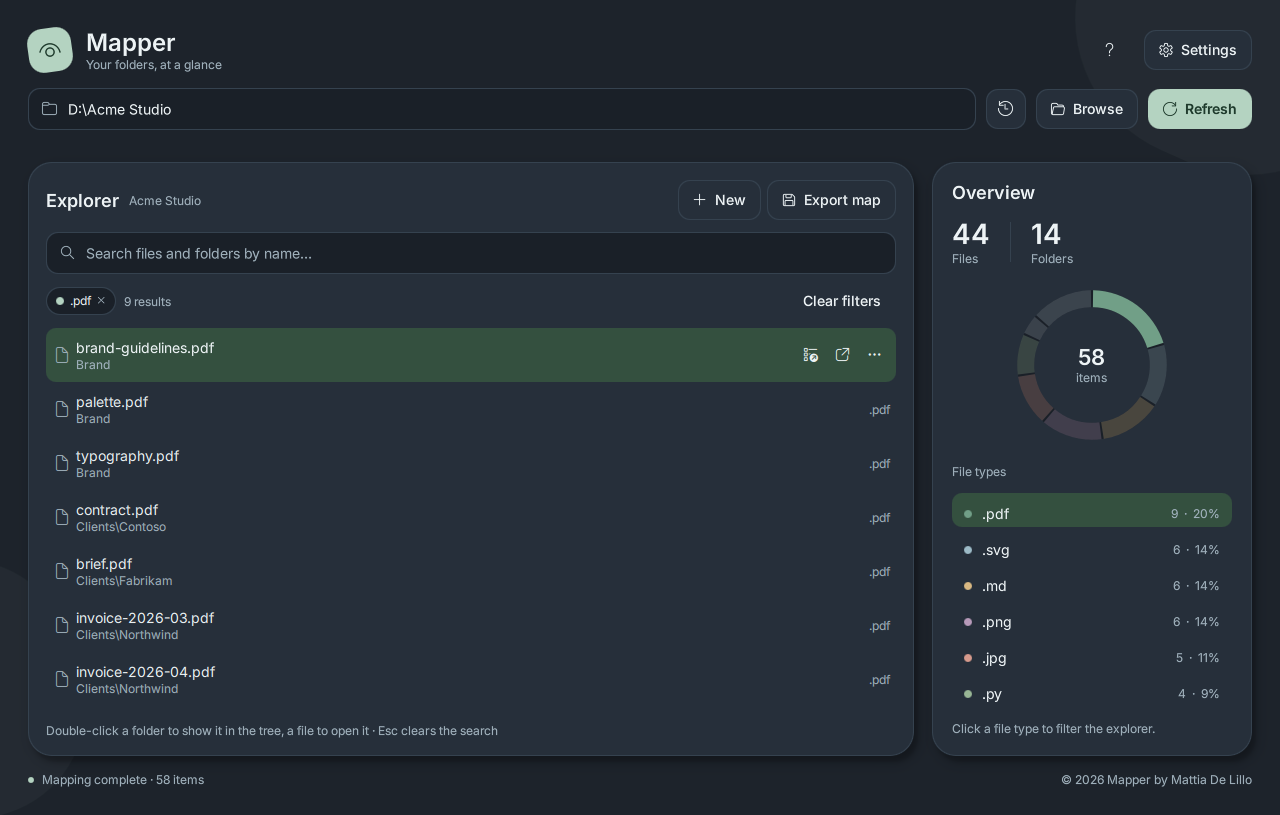
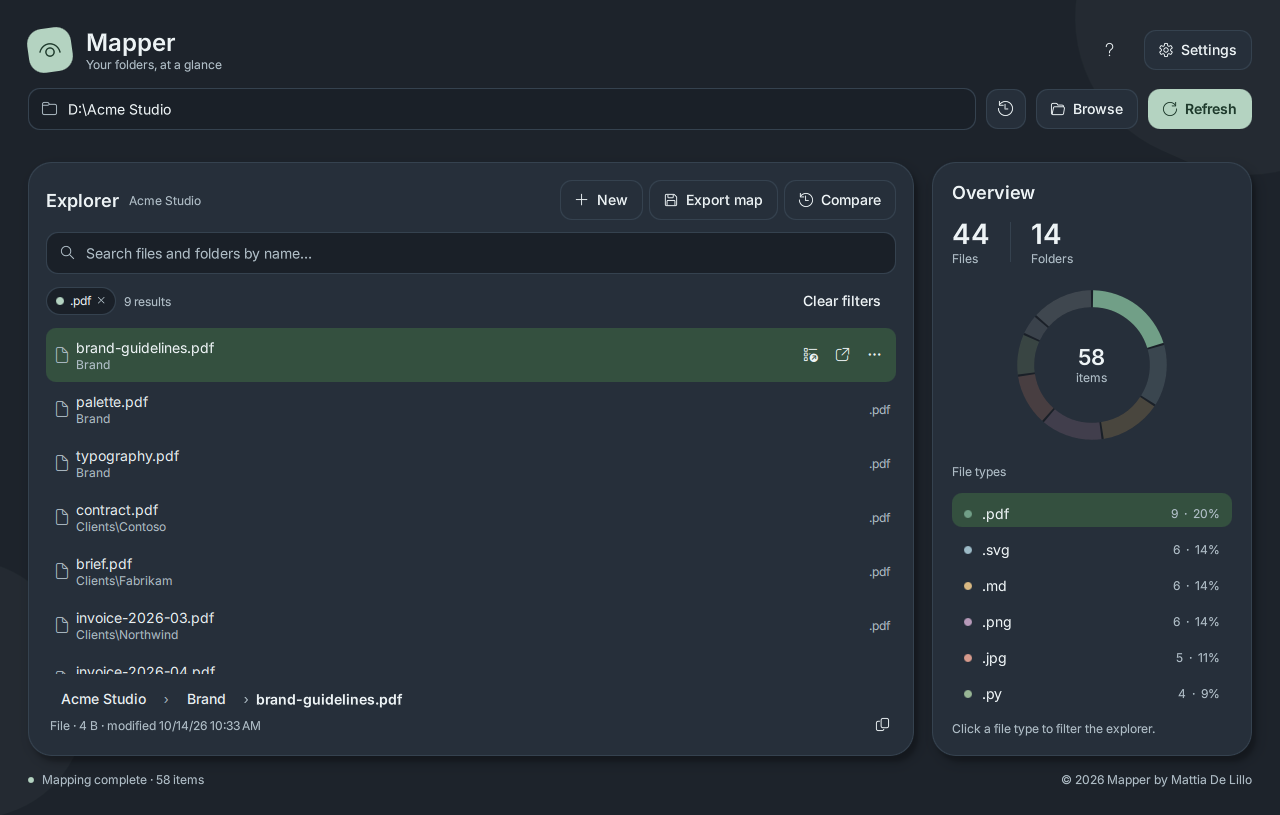
14/10/2026 10:36:46 - MAPPER v1.5.0 - Action: docs - Details: selection bar and empty states in README and CHANGELOG, regenerated screenshots, milestone 4 report

Changed region(s): [[0.0312, 0.8282, 0.375, 0.9202], [0.625, 0.2147, 0.6875, 0.2761], [0.5312, 0.2454, 0.5938, 0.2761]]

diff --git a/docs/mapper-2.0/milestone-4.md b/docs/mapper-2.0/milestone-4.md
@@ -1,0 +1,40 @@
+# Mapper 2.0 — Milestone 4: rifinitura dell'interfaccia
+
+Data: 14/10/2026 · Branch: `feature/mapper-2.0` · Riferimento: [fase-0-audit.md](fase-0-audit.md) (P2).
+
+## Cosa è stato fatto
+
+| Parte | Modifica | File |
+| --- | --- | --- |
+| Totali delle cartelle | `Tree.totals(i)` restituisce file, cartelle e byte di un sottoalbero in tempo costante (somme prefisse costruite una volta nel thread di scansione) | `src/mapper_core/model.py`, `src/backend.py` |
+| Dettagli | Slot `details(path)`: tipo, dimensione, totali, data di modifica, attributi e percorso a passi (radice + cartelle antenate) | `src/backend.py` |
+| Barra della selezione | Sotto l'albero: percorso cliccabile (clic su un passo = apri quella cartella, la radice torna in cima), nome, dettagli e copia percorso; il suggerimento fisso appare solo senza selezione | `src/qml/Main.qml` |
+| Stati vuoti | In mappatura (con il numero di elementi trovati), benvenuto, nessun risultato, cartella vuota, tutto escluso (pulsante *Modifica esclusioni*), cartella non leggibile (pulsante *Mostra dettagli*) | `src/qml/Main.qml` |
+| Accessibilità | Righe dell'albero con descrizione per i lettori di schermo (cartella, collegamento o estensione); barra della selezione con ruolo *barra di stato* e testo completo; testo secondario più scuro (chiaro) e più chiaro (scuro): contrasto minimo da 3,75 a **4,62:1** | `src/qml/Main.qml`, `tests/test_accessibility.py` |
+| Traduzioni | 15 nuove chiavi in 5 lingue (195 chiavi ciascuna) | `src/Languages/*.json` |
+| Doc | Funzionalità README IT/EN, CHANGELOG, screenshot rigenerati | `README*.md`, `CHANGELOG.md`, `docs/screenshots/` |
+
+## Criteri di accettazione
+
+| Criterio della specifica | Esito | Evidenza |
+| --- | --- | --- |
+| Pannello dettagli (dimensione, date, attributi) | ✔ | `test_details_and_breadcrumb_of_the_selection`; smoke: dettagli che iniziano con `File · 0 B` |
+| Breadcrumb | ✔ | smoke: *Workspace › Documents › nested-report.txt*; screenshot del README |
+| Totali di una cartella senza rileggere il disco | ✔ | `test_folder_totals_in_constant_time` (anche senza metadati: byte = 0) |
+| Stati vuoti ed errori chiari | ✔ | smoke: titolo *This folder is empty* su una cartella vuota; schermata nessun risultato già coperta |
+| Contrasto WCAG AA ≥ 4,5:1 | ✔ | `test_every_theme_meets_wcag_aa_for_normal_text` su 4 temi × 12 coppie testo/sfondo |
+| Lettori di schermo | ✔ (parziale) | nomi e descrizioni accessibili su righe e barra; non provato con NVDA/Narratore |
+| Nessuna regressione | ✔ | 90 test unitari + smoke UI; mappa TXT identica alla 1.5 |
+| Exe | ✔ | entrambi compilati; `--smoke-test` senza avvisi; nessun dato personale |
+
+## Limiti noti
+
+- `Main.qml` non è stato diviso in componenti (resta un file unico di ~1 600 righe): la divisione è un
+  cambiamento ampio senza vantaggi per l'utente e va fatta con calma, dopo il rilascio 2.0.
+- Non c'è un "annulla" per le operazioni sui file oltre al Cestino di Windows.
+- L'accessibilità non è stata provata con un lettore di schermo reale.
+
+## Prossimo passo: Milestone 5
+
+Sicurezza e preparazione al rilascio: controlli CI (lint, audit delle dipendenze, SBOM, azioni fissate per
+hash), revisione finale della sicurezza, note di rilascio 2.0.

diff --git a/README.it.md b/README.it.md
@@ -74,7 +74,11 @@ Avviando dal codice sorgente sono salvate in `src/config.json`.
 - Albero virtualizzato con espandi/comprimi, espandi tutto/comprimi tutto e navigazione completa da tastiera; le cartelle aperte restano aperte dopo un aggiornamento o un'azione sui file
 - **Ricerca mentre scrivi** in tutta la mappa, con le corrispondenze evidenziate e la posizione di ogni risultato; *Mostra nell'albero* apre le cartelle che lo contengono e seleziona l'elemento
 - Grafico ad anello interattivo e legenda completa e scorrevole; clicca un tipo di file per filtrare, di nuovo (o sull'etichetta) per togliere il filtro
-- Scansione in background con avanzamento reale e possibilità di annullare
+- **Barra della selezione** sotto l'albero: percorso cliccabile dell'elemento selezionato (clic su un passo per
+  andare a quella cartella), dimensione, data e attributi; per le cartelle i file, le sottocartelle e la dimensione totale
+- Stati vuoti chiari: cartella vuota, nessun risultato, tutto escluso dalle tue regole (con scorciatoia alle
+  regole) oppure cartella non leggibile (con scorciatoia ai dettagli)
+- Scansione in background con conteggio dal vivo degli elementi trovati e possibilità di annullare
 - Azioni con clic destro (o ⋯): apri, mostra in Esplora risorse, copia percorso, taglia/copia/incolla, duplica, nuovo file/cartella, rinomina, elimina
 - Elimina sposta gli elementi nel **Cestino**; le copie non sovrascrivono mai (`nome - copia`, `nome - copia (2)` …); i nomi vengono controllati prima della conferma
 - **Esporta mappa** come albero di testo (TXT), Markdown, JSON o CSV, per tutta la mappa o una cartella (clic destro →
@@ -88,7 +92,8 @@ Avviando dal codice sorgente sono salvate in `src/config.json`.
 - **Esclusioni**: salta le cartelle tecniche (`.git`, `node_modules`, …), aggiungi modelli in stile `.gitignore`
   e limita i livelli da mappare (Impostazioni → *Esclusioni e livelli…*)
 - Cinque temi (chiaro, scuro, blu, rosso, sistema) e cinque lingue (italiano, inglese, tedesco, francese, spagnolo), con anteprima dal vivo nelle Impostazioni
-- Uno stile unico e coerente per pulsanti, campi, menu, finestre di dialogo, suggerimenti e selettori; animazioni riducibili
+- Uno stile unico e coerente per pulsanti, campi, menu, finestre di dialogo, suggerimenti e selettori; animazioni riducibili;
+  contrasto del testo almeno 4,5:1 (WCAG AA) in ogni tema, nomi e descrizioni per i lettori di schermo
 - Eseguibile portatile, senza installazione; preferenze in `%APPDATA%\Mapper`, oppure accanto all'exe per l'uso da chiavetta
 
 La ricerca usa l'ultima mappatura. Premi F5 per aggiornare dopo modifiche fatte da altri programmi.

diff --git a/README.md b/README.md
@@ -74,7 +74,11 @@ When run from source they are saved in `src/config.json`.
 - Virtualized tree with expand/collapse, expand all/collapse all and full keyboard navigation; open folders stay open after refreshes and file actions
 - **Search as you type** across the whole map, with highlighted matches and the location of each result; *Show in tree* opens the parent folders and selects the item
 - Interactive donut chart and complete, scrollable legend; click a file type to filter, click again (or the chip) to clear
-- Background scanning with real progress and cancellation
+- **Selection bar** under the tree: clickable path of the selected item (click a step to jump to that folder),
+  size, date and attributes; for folders the files, subfolders and total size it contains
+- Clear empty states: empty folder, no search results, everything excluded by your rules (with a shortcut to the
+  rules) or folder not readable (with a shortcut to the details)
+- Background scanning with live count of the items found and cancellation
 - Right-click (or ⋯) actions: open, show in Explorer, copy path, cut/copy/paste, duplicate, new file/folder, rename, delete
 - Delete moves items to the **Recycle Bin**; copies never overwrite (`name - copy`, `name - copy (2)` …); names are validated before confirming
 - **Export map** as a text tree (TXT), Markdown, JSON or CSV, for the whole map or one folder (right-click →
@@ -88,7 +92,8 @@ When run from source they are saved in `src/config.json`.
 - **Exclusions**: skip technical folders (`.git`, `node_modules`, …), add your own `.gitignore`-style
   patterns and limit the levels to map (Settings → *Exclusions and levels…*)
 - Five themes (light, dark, blue, red, system) and five languages (Italian, English, German, French, Spanish), with live preview in Settings
-- One consistent style for buttons, fields, menus, dialogs, tooltips and selectors; optional reduced motion
+- One consistent style for buttons, fields, menus, dialogs, tooltips and selectors; optional reduced motion;
+  text contrast at least 4.5:1 (WCAG AA) in every theme, names and descriptions for screen readers
 - Portable executable, no installation; preferences in `%APPDATA%\Mapper`, or next to the exe for USB use
 
 Search uses the latest map. Press F5 to refresh changes made by other applications.

diff --git a/CHANGELOG.md b/CHANGELOG.md
@@ -9,6 +9,8 @@ The section of each version is the text of its GitHub release.
 
 ### Added
 
+- Selection bar under the tree: clickable path of the selected item, size, date and attributes; for folders the number of files and subfolders and the total size (computed once per map, instant on any folder)
+- Empty states for an empty folder, a folder that cannot be read and a map where everything is excluded, each with a shortcut (details, exclusion rules)
 - `mapper-cli.exe`: command line with `scan`, `export`, `snapshot`, `diff` and `validate`, JSON output, JSON-lines logs and documented exit codes ([docs/cli.md](docs/cli.md)); released next to `Mapper.exe` with its own SHA-256 and attestation
 - Snapshots and comparison: save the state of a folder (optionally with SHA-256 fingerprints) and compare it later with the current map or with another snapshot: added, removed, modified (content vs dates only), renamed or moved files and folders; filter, show in the tree, export as Markdown, JSON (`mapper-diff` schema) or CSV
 - Export as Markdown, JSON (versioned `mapper-tree` schema) and CSV besides the text tree, for the whole map or a single folder, with optional sizes and dates and an option to hide full paths ([docs/formats.md](docs/formats.md))
@@ -20,6 +22,7 @@ The section of each version is the text of its GitHub release.
 
 ### Changed
 
+- Secondary text is darker in the light theme and lighter in the dark theme: every text/background pair now reaches the WCAG AA contrast of 4.5:1 (checked by a test)
 - The version number lives in `src/mapper_core/version.py` (shared by the app, the command line and the build)
 - New scanning core (`mapper_core`, no Qt): one pass over the disk instead of two, about 3–5× faster and about 9× less memory per item on the benchmark trees; the text map is unchanged byte for byte
 - While mapping, the status shows the number of items found instead of a percentage
